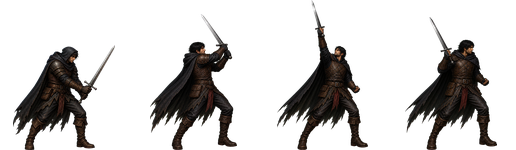
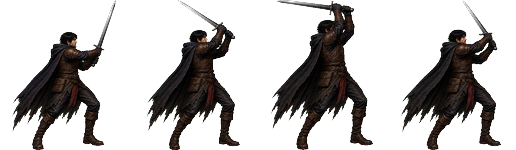
close(game_art): session 2026-07-11 - validations player et decor HUB

diff --git a/game_art/_contexte/signals.md b/game_art/_contexte/signals.md
@@ -2,43 +2,39 @@
 
 ## Actions ouvertes
 
-- [P1] Valider manuellement les 4 attaques directionnelles regenerees.
-  fait quand: dans `python run_editeur.py`, les etats `player/attack_up`, `player/attack_down`, `player/attack_up_diag` et `player/attack_down_diag` sont juges fluides, sans derive visible de silhouette, de cadrage, d'echelle ou d'ancrage sur la sequence `0,1,2,3,3,3,2,1,0`.
-  ref: game_art/assets/player/player_attack_up_sheet.png, game_art/assets/player/player_attack_down_sheet.png, game_art/assets/player/player_attack_up_diag_sheet.png, game_art/assets/player/player_attack_down_diag_sheet.png, game_art/data/animations.json.
-- [P2] Valider manuellement la nouvelle animation `idle`.
-  fait quand: dans `python run_editeur.py`, l'etat `player/idle` est juge fluide sans saut visible d'echelle, de cadrage ni d'ancrage sur la sequence `0,1,2,3,5`.
-  ref: game_art/assets/player/player_idle_sheet.png, game_art/data/animations.json.
-- [P3] Valider manuellement l'animation `attack` regeneree.
+- [P1] Valider manuellement l'animation `attack` regeneree.
   fait quand: dans `python run_editeur.py`, l'etat `player/attack` est juge fluide sans saut visible d'echelle, de cadrage, d'ancrage au sol ou de longueur d'epee sur la sequence `0,1,2,3,3,3,2,1,0`.
   ref: game_art/assets/player/player_attack_sheet.png, game_art/data/animations.json.
-- [P4] Verifier le flux `Recharger` en session ouverte.
+- [P2] Verifier le flux `Recharger` en session ouverte.
   fait quand: une modification d'asset ou de `animations.json` devient visible dans l'editeur via le bouton `Recharger`, sans fermer Godot.
   ref: game_art/editeur/main.gd, game_art/editeur/inspector.gd.
 
 ## Blocages
 
 ## Derniere session
-# Session du 2026-07-10
+# Session du 2026-07-11
 
 ## Decisions prises
-- Les 4 attaques directionnelles du player sont regenerees integralement depuis de nouvelles frames sources, au lieu d'un simple reassemblage des anciennes.
-- Les 4 attaques directionnelles adoptent maintenant la meme organisation runtime que `player/attack` : `0,1,2,3,3,3,2,1,0`.
-- Les nouvelles sheets directionnelles sont synchronisees dans `game/` pour insertion runtime immediate, meme si leur validation visuelle reste ouverte.
+- Les 4 attaques directionnelles du player et `player/idle` sont validees manuellement dans l'editeur.
+- Le decor du HUB est livre comme fond fixe `1920x1080`.
+- L'atelier runtime est regenere en plus grand format et realigne cote jeu.
 
 ## Livrables produits ou modifies
-- game_art/assets/player/player_attack_up_sheet.png, player_attack_down_sheet.png, player_attack_up_diag_sheet.png, player_attack_down_diag_sheet.png : 4 sheets directionnelles regenerees integralement et remplacees.
-- game_art/assets/generated_raw/player/attack_*_regen_f*_raw.png : 16 frames sources brutes conservees pour les 4 attaques directionnelles.
-- game_art/data/animations.json, game/data/animations.json : lectures runtime des 4 attaques directionnelles alignees sur `0,1,2,3,3,3,2,1,0`.
+- game_art/assets/player/player_attack_up_sheet.png, game_art/assets/generated_raw/player/attack_up_regen_strip_raw.png, attack_up_regen_f0_raw.png, attack_up_regen_f1_raw.png, attack_up_regen_f2_raw.png, attack_up_regen_f3_raw.png : `player/attack_up` regenere completement pour corriger la frame `0.0`.
+- game_art/assets/tiles/hub_decor.png, game_art/assets/generated_raw/hub_decor_raw.png : decor du HUB produit en `1920x1080`.
+- game_art/assets/objects/workbench.png, game_art/assets/generated_raw/workbench_raw.png, game/scripts/workbench.gd, game/data/level.json : atelier regenere en `160x144`, collision/zone et ancrage runtime realignes.
 
 ## Hypotheses validees / invalidees
-- VALIDE : les 4 attaques directionnelles peuvent etre reintegrees en runtime avec le meme schema de lecture que `player/attack`.
-- INVALIDE : reassembler les anciennes frames directionnelles suffisait -> pivot vers une regeneration complete depuis de nouvelles sources.
-- EN ATTENTE : validation manuelle de la coherence visuelle exacte des 4 attaques directionnelles, puis de `idle` et `attack` dans l'editeur.
+- VALIDE : les 4 attaques directionnelles sont jugees fluides et coherentes en lecture editeur.
+- VALIDE : `player/idle` est juge fluide sur `0,1,2,3,5`.
+- VALIDE : l'atelier peut etre agrandi a `160x144` si le runtime suit avec collision et position reajustees.
+- EN ATTENTE : validation manuelle de `player/attack`, puis verification du flux `Recharger`.
 
 ## Prochaine etape exacte
-Lancer `python run_editeur.py`, cliquer `Recharger`, puis lire `player/attack_up`,
-`player/attack_down`, `player/attack_up_diag` et `player/attack_down_diag` pour verifier
-stabilite de silhouette et d'ancrage. Enchaine ensuite avec `player/idle`, puis `player/attack`.
+Lancer `python run_editeur.py`, cliquer `Recharger`, puis lire `player/attack` pour verifier
+stabilite d'echelle, de cadrage, d'ancrage au sol et de longueur d'epee. En profite
+pour confirmer qu'une modification d'asset ou de `animations.json` est bien rechargee
+en session ouverte via le bouton `Recharger`.
 
 ## Question bloquante pour la session suivante
 Aucune

diff --git a/game_art/backlog_art.md b/game_art/backlog_art.md
@@ -65,7 +65,7 @@ Consequences pour cette zone (a traiter cote game_art, hors perimetre jeu) :
 - priorite: haute
 - statut: integre
 - livraison: `game_art/assets/player/player_idle_v2.png`, `game_art/assets/player/player_run1.png`, `game_art/assets/player/player_run2.png`, `game_art/assets/player/player_jump.png`, `game_art/assets/player/player_attack.png`, `game_art/assets/player/player_attack_transition.png`, `game_art/assets/player/player_attack_up.png`, `game_art/assets/player/player_attack_up_transition.png`, `game_art/assets/player/player_attack_up_diag.png`, `game_art/assets/player/player_attack_up_diag_transition.png`, `game_art/assets/player/player_attack_down.png`, `game_art/assets/player/player_attack_down_transition.png`, `game_art/assets/player/player_attack_down_diag.png`, `game_art/assets/player/player_attack_down_diag_transition.png`, `game_art/assets/player/player_run_sheet.png`, `game_art/assets/player/player_idle_sheet.png`, `game_art/assets/player/player_jump_sheet.png`, `game_art/assets/player/player_fall_sheet.png`, `game_art/assets/player/player_hurt_sheet.png`, `game_art/assets/player/player_dead_sheet.png`, `game_art/assets/player/player_attack_sheet.png`, `game_art/assets/player/player_attack_up_sheet.png`, `game_art/assets/player/player_attack_down_sheet.png`, `game_art/assets/player/player_attack_up_diag_sheet.png`, `game_art/assets/player/player_attack_down_diag_sheet.png`, `game_art/data/animations.json`
-- note: cette entree est aussi le support du "Fait quand" de la Phase 5 de `roadmap_editeur.md` (premier cycle complet sheet -> editeur -> audit -> sync -> validation en jeu). En maintenance 2026-07-09 : `player/attack` a ete regenere integralement depuis une frame de reference ; la sequence visee est `0,1,2,3,3,3,2,1,0`. En maintenance 2026-07-10 : `player/idle` a ete refait en 6 frames ; la lecture courante ignore `4.0` et vise `0,1,2,3,5`. En maintenance 2026-07-10 : les 4 attaques directionnelles ont ete regenerees integralement, synchronisees dans `game/`, et lues sur `0,1,2,3,3,3,2,1,0`, mais leur coherence visuelle exacte reste a valider dans l'editeur.
+- note: cette entree est aussi le support du "Fait quand" de la Phase 5 de `roadmap_editeur.md` (premier cycle complet sheet -> editeur -> audit -> sync -> validation en jeu). En maintenance 2026-07-09 : `player/attack` a ete regenere integralement depuis une frame de reference ; la sequence visee est `0,1,2,3,3,3,2,1,0`. En maintenance 2026-07-10 : `player/idle` a ete refait en 6 frames ; la lecture courante ignore `4.0` et vise `0,1,2,3,5`. En maintenance 2026-07-11 : les 4 attaques directionnelles et `idle` sont valides dans l'editeur ; seule la validation manuelle finale de `player/attack` et du flux `Recharger` reste ouverte.
 
 ### Animations mobilite - double saut, corde/grappin
 - phase: 2 - Grimoire/PC/Craft (mobilite definie questions.md Q015)
@@ -117,7 +117,8 @@ Consequences pour cette zone (a traiter cote game_art, hors perimetre jeu) :
 - placeholder: rects colores
 - specs: point central + 4 directions visibles, composition pensee pour un ecran fixe 1920x1080. Le HUB reste minimal (4 sorties, Grimoire, etabli) - pas de decor evolutif en v3 (questions.md Q039).
 - priorite: haute
-- statut: a_faire
+- statut: livre
+- livraison: `game_art/assets/tiles/hub_decor.png`
 
 ### Objet/portail de sortie volontaire de biome
 - phase: 3 - HUB (jalon J1)

diff --git a/game_art/_contexte/contexte.md b/game_art/_contexte/contexte.md
@@ -12,22 +12,13 @@ pour visualiser, animer et auditer les sprites. Cible player actuelle :
 - Synchro vers jeu : sync.py a la racine projet (gere par zone jeu)
 
 ## Etat actuel
-La zone game_art reste en maintenance de production sur les animations player.
-L'etat `player/idle` reste sur une sheet 6 frames lue en pratique sur `0,1,2,3,5` a `5 fps`.
-L'etat `player/attack` conserve sa regeneration complete et sa sequence `0,1,2,3,3,3,2,1,0`.
-Les 4 attaques directionnelles ont ete regenerees integralement, synchronisees dans `game/`, et lues elles aussi sur `0,1,2,3,3,3,2,1,0`.
-Les sources brutes de regeneration sont conservees dans `game_art/assets/generated_raw/player/`.
-La validation manuelle finale des 4 attaques directionnelles, puis de `idle` et `attack`, reste a faire dans l'editeur.
+La zone game_art reste en maintenance de production, avec la boucle player presque close.
+`player/idle` et les 4 attaques directionnelles sont maintenant valides en lecture editeur.
+`player/attack` reste le dernier etat player a valider manuellement, avec le flux `Recharger`.
+Le decor du HUB est livre comme fond fixe `1920x1080` dans `assets/tiles/`.
+L'atelier runtime a ete regenere en `160x144` et realigne cote jeu pour rester coherent en scene.
 
 ## Decisions structurantes
-- Le manifest d'audit des ennemis doit refleter les dimensions runtime reelles des assets pour rester coherent avec l'integration jeu.
-- La scene `boss.tscn` aligne desormais visuel et collisions sur un gabarit `389x500`.
-- Le panneau `Reference` de l'editeur est supprime : les references visuelles ne sont
-  plus affichees dans le workflow courant.
-- La preview `Produit` utilise `AnimatedSprite2D.centered = false` et centre la texture
-  de la frame courante explicitement dans le viewport.
-- Le player utilise desormais uniquement des etats `sheet`, y compris les attaques
-  directionnelles et les etats mono-frame encapsules en sheet 1 frame.
 - Les PNG player legacy sont conserves comme sources dans `assets/player/legacy_archive/`
   et exclus explicitement de l'audit.
 - Les gisements exploitent maintenant des sprites dedies par materiau, sans fallback
@@ -42,3 +33,8 @@ La validation manuelle finale des 4 attaques directionnelles, puis de `idle` et 
   la frame `4.0` est exclue tant qu'elle n'est pas regeneree proprement.
 - Les 4 attaques directionnelles du player suivent desormais la meme sequence runtime
   que `player/attack` : `0,1,2,3,3,3,2,1,0`, apres regeneration complete des frames.
+- Les 4 attaques directionnelles et `player/idle` sont valides en lecture editeur ;
+  `player/attack` reste le dernier controle visuel player ouvert.
+- Le decor du HUB est livre comme fond fixe `1920x1080`, pret pour branchement cote jeu.
+- L'atelier runtime utilise desormais un sprite `160x144` avec collision, zone
+  d'interaction et ancrage au sol realignes.

diff --git a/game_art/roadmap_editeur.md b/game_art/roadmap_editeur.md
@@ -94,8 +94,7 @@ Le temps de la zone game_art va a la production d'assets, pas au polissage de l'
 ## Point d'attention
 
 La migration de format est close pour le player et ses PNG legacy sont archives hors
-audit. Les points chauds de maintenance sont maintenant la validation visuelle des
-4 attaques directionnelles regenerees integralement et lues sur `0,1,2,3,3,3,2,1,0`,
-puis de `player/idle` regenere en 6 frames mais lu sur `0,1,2,3,5`, puis de
-`player/attack` regenere depuis une frame de reference, ainsi que le bon usage du
-bouton `Recharger` pour eviter les relances inutiles de l'editeur.
+audit. Les points chauds de maintenance sont maintenant la validation visuelle finale
+de `player/attack` regenere depuis une frame de reference, ainsi que le bon usage du
+bouton `Recharger` pour eviter les relances inutiles de l'editeur. Les 4 attaques
+directionnelles et `player/idle` sont desormais validees en lecture editeur.

diff --git a/CHANGELOG.md b/CHANGELOG.md
@@ -1,3 +1,11 @@
+## v1.45 - 2026-07-11
+
+### Modifie
+- `game_art/assets/player/player_attack_up_sheet.png` et `game_art/assets/generated_raw/player/attack_up_regen_*` : `player/attack_up` regenere completement pour corriger la frame `0.0` incoherente.
+- `game_art/assets/tiles/hub_decor.png`, `game_art/assets/generated_raw/hub_decor_raw.png`, `game_art/backlog_art.md` et `game_art/roadmap_editeur.md` : decor du HUB produit en `1920x1080` et backlog game_art aligne sur sa livraison.
+- `game_art/assets/objects/workbench.png`, `game_art/assets/generated_raw/workbench_raw.png`, `game/scripts/workbench.gd` et `game/data/level.json` : atelier regenere en plus grand format (`160x144`) avec runtime realigne.
+- `game_art/_contexte/` : contexte de maintenance realigne sur la validation acquise des attaques directionnelles et de `idle`, avec `player/attack` et `Recharger` encore ouverts.
+
 ## v1.44 - 2026-07-10
 
 ### Modifie

diff --git a/game_art/_contexte/archive_decisions.md b/game_art/_contexte/archive_decisions.md
@@ -38,3 +38,8 @@
   reste standard et ne doit pas compenser une orientation source inverse.
 - Le set joueur HD est valide en jeu depuis le 2026-07-07 et devient la base visuelle
   de reference pour la suite de la production.
+- Le manifest d'audit des ennemis doit refleter les dimensions runtime reelles des assets pour rester coherent avec l'integration jeu.
+- La scene `boss.tscn` aligne desormais visuel et collisions sur un gabarit `389x500`.
+- Le panneau `Reference` de l'editeur est supprime : les references visuelles ne sont plus affichees dans le workflow courant.
+- La preview `Produit` utilise `AnimatedSprite2D.centered = false` et centre la texture de la frame courante explicitement dans le viewport.
+- Le player utilise desormais uniquement des etats `sheet`, y compris les attaques directionnelles et les etats mono-frame encapsules en sheet 1 frame.
